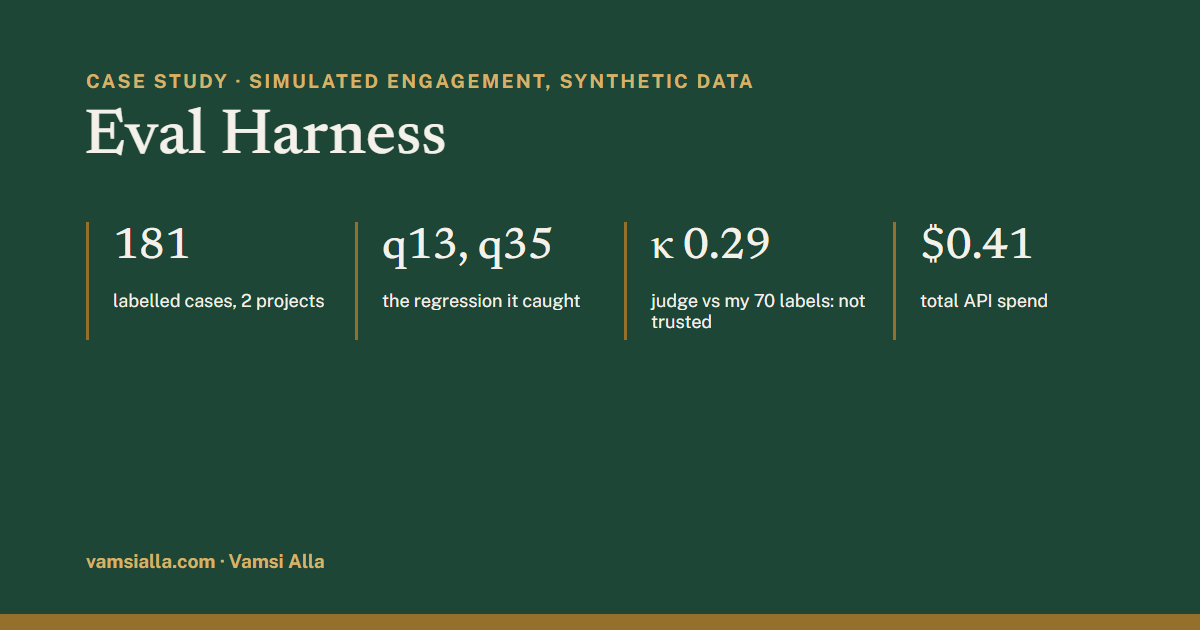
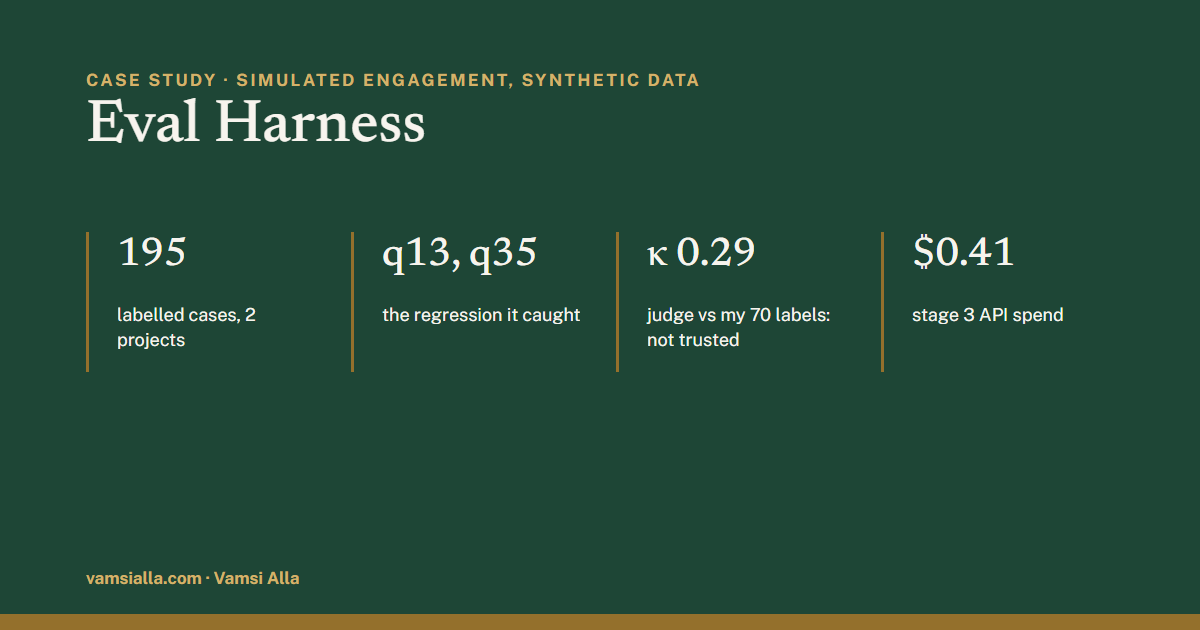
fix(seo): link previews match current numbers; Projects gets its own preview image
- Projects used stage 1's image and alt text (98%, 307 tests); it now has
  og-projects.png with numbers from its cards.
- Stage 1: 100% answer accuracy (162/162, v1.6.0), 431 tests (main CI).
- Stage 2: $1.24 per 1,000 emails (v1.1.0 release run; was $1.30, v1.0).
- Stage 3: 195 labelled cases.
Images rendered in the site fonts by video-kit/og_render.py.

diff --git a/projects/eval-harness.html b/projects/eval-harness.html
@@ -6,22 +6,22 @@
 <meta http-equiv="Content-Security-Policy" content="default-src 'self'; script-src 'self' 'sha256-o79U98mSonxUvDkqUhfri07kWq61HcDtV8t3ftYFIlY=' 'sha256-JLpx5CfaK6waZ0Y2x5NuG7yR1PnJjlfaRCBxq4ZAVqU=' gc.zgo.at; style-src 'self'; font-src 'self'; img-src 'self' data: https://vamsialla.goatcounter.com; connect-src 'self' https://vamsialla.goatcounter.com; media-src 'self'; object-src 'none'; base-uri 'self'; form-action 'none'">
 <meta name="referrer" content="strict-origin-when-cross-origin">
 <title>Eval Harness | Case study | Vamsi Alla</title>
-<meta name="description" content="Independent, simulated engagement with synthetic data: one evaluation harness for two AI assistants, with 181 labelled cases, regression gates in CI and an LLM judge checked against hand labels. It caught a realistic retrieval regression.">
+<meta name="description" content="Independent, simulated engagement with synthetic data: one evaluation harness for two AI assistants, with 195 labelled cases, regression gates in CI and an LLM judge checked against hand labels. It caught a realistic retrieval regression.">
 <link rel="canonical" href="https://vamsialla.com/projects/eval-harness.html">
 <meta property="og:title" content="Eval Harness | Case study | Vamsi Alla">
-<meta property="og:description" content="Independent, simulated engagement with synthetic data: one evaluation harness for two AI assistants, with 181 labelled cases, regression gates in CI and an LLM judge checked against hand labels. It caught a realistic retrieval regression.">
+<meta property="og:description" content="Independent, simulated engagement with synthetic data: one evaluation harness for two AI assistants, with 195 labelled cases, regression gates in CI and an LLM judge checked against hand labels. It caught a realistic retrieval regression.">
 <meta property="og:type" content="article">
 <meta property="og:url" content="https://vamsialla.com/projects/eval-harness.html">
 <meta property="og:site_name" content="Vamsi Alla">
 <meta property="og:image" content="https://vamsialla.com/assets/og-eval-harness.png">
 <meta property="og:image:width" content="1200">
 <meta property="og:image:height" content="630">
-<meta property="og:image:alt" content="Eval Harness case study: 181 labelled cases, the regression it caught (q13, q35), judge kappa 0.29 against 70 hand labels (not trusted), $0.41 total API spend">
+<meta property="og:image:alt" content="Eval Harness case study: 195 labelled cases, the regression it caught (q13, q35), judge kappa 0.29 against 70 hand labels (not trusted), $0.41 stage 3 API spend">
 <meta name="twitter:card" content="summary_large_image">
 <meta name="twitter:title" content="Eval Harness | Case study | Vamsi Alla">
-<meta name="twitter:description" content="Independent, simulated engagement with synthetic data: one evaluation harness for two AI assistants, with 181 labelled cases, regression gates in CI and an LLM judge checked against hand labels. It caught a realistic retrieval regression.">
+<meta name="twitter:description" content="Independent, simulated engagement with synthetic data: one evaluation harness for two AI assistants, with 195 labelled cases, regression gates in CI and an LLM judge checked against hand labels. It caught a realistic retrieval regression.">
 <meta name="twitter:image" content="https://vamsialla.com/assets/og-eval-harness.png">
-<meta name="twitter:image:alt" content="Eval Harness case study: 181 labelled cases, the regression it caught (q13, q35), judge kappa 0.29 against 70 hand labels (not trusted), $0.41 total API spend">
+<meta name="twitter:image:alt" content="Eval Harness case study: 195 labelled cases, the regression it caught (q13, q35), judge kappa 0.29 against 70 hand labels (not trusted), $0.41 stage 3 API spend">
 <meta name="theme-color" content="#F7F4EE" media="(prefers-color-scheme: light)">
 <meta name="theme-color" content="#111613" media="(prefers-color-scheme: dark)">
 <link rel="icon" href="../favicon.ico" sizes="32x32">

diff --git a/projects/hotel-ops-assistant.html b/projects/hotel-ops-assistant.html
@@ -6,22 +6,22 @@
 <meta http-equiv="Content-Security-Policy" content="default-src 'self'; script-src 'self' 'sha256-o79U98mSonxUvDkqUhfri07kWq61HcDtV8t3ftYFIlY=' 'sha256-JLpx5CfaK6waZ0Y2x5NuG7yR1PnJjlfaRCBxq4ZAVqU=' gc.zgo.at; style-src 'self'; font-src 'self'; img-src 'self' data: https://vamsialla.goatcounter.com; connect-src 'self' https://vamsialla.goatcounter.com; media-src 'self'; object-src 'none'; base-uri 'self'; form-action 'none'">
 <meta name="referrer" content="strict-origin-when-cross-origin">
 <title>Hotel Operations Knowledge Assistant | Case study | Vamsi Alla</title>
-<meta name="description" content="Independent, simulated engagement with synthetic data: a RAG assistant that gives hotel front-desk staff cited, property-specific policy answers. 98% answer accuracy on the live app; first-question success 43% to 100%.">
+<meta name="description" content="Independent, simulated engagement with synthetic data: a RAG assistant that gives hotel front-desk staff cited, property-specific policy answers. 100% answer accuracy on the live app (162/162, v1.6.0); first-question success 43% to 100%.">
 <link rel="canonical" href="https://vamsialla.com/projects/hotel-ops-assistant.html">
 <meta property="og:title" content="Hotel Operations Knowledge Assistant | Case study | Vamsi Alla">
-<meta property="og:description" content="Independent, simulated engagement with synthetic data: a RAG assistant that gives hotel front-desk staff cited, property-specific policy answers. 98% answer accuracy on the live app; first-question success 43% to 100%.">
+<meta property="og:description" content="Independent, simulated engagement with synthetic data: a RAG assistant that gives hotel front-desk staff cited, property-specific policy answers. 100% answer accuracy on the live app (162/162, v1.6.0); first-question success 43% to 100%.">
 <meta property="og:type" content="article">
 <meta property="og:url" content="https://vamsialla.com/projects/hotel-ops-assistant.html">
 <meta property="og:site_name" content="Vamsi Alla">
 <meta property="og:image" content="https://vamsialla.com/assets/og-hotel-ops.png">
 <meta property="og:image:width" content="1200">
 <meta property="og:image:height" content="630">
-<meta property="og:image:alt" content="Hotel Operations Knowledge Assistant case study: 98% answer accuracy on the live app, first-question success 43% to 100%, 307 tests">
+<meta property="og:image:alt" content="Hotel Operations Knowledge Assistant case study: 100% answer accuracy on the live app (v1.6.0), first-question success 43% to 100%, 431 tests">
 <meta name="twitter:card" content="summary_large_image">
 <meta name="twitter:title" content="Hotel Operations Knowledge Assistant | Case study | Vamsi Alla">
-<meta name="twitter:description" content="Independent, simulated engagement with synthetic data: a RAG assistant that gives hotel front-desk staff cited, property-specific policy answers. 98% answer accuracy on the live app; first-question success 43% to 100%.">
+<meta name="twitter:description" content="Independent, simulated engagement with synthetic data: a RAG assistant that gives hotel front-desk staff cited, property-specific policy answers. 100% answer accuracy on the live app (162/162, v1.6.0); first-question success 43% to 100%.">
 <meta name="twitter:image" content="https://vamsialla.com/assets/og-hotel-ops.png">
-<meta name="twitter:image:alt" content="Hotel Operations Knowledge Assistant case study: 98% answer accuracy on the live app, first-question success 43% to 100%, 307 tests">
+<meta name="twitter:image:alt" content="Hotel Operations Knowledge Assistant case study: 100% answer accuracy on the live app (v1.6.0), first-question success 43% to 100%, 431 tests">
 <meta name="theme-color" content="#F7F4EE" media="(prefers-color-scheme: light)">
 <meta name="theme-color" content="#111613" media="(prefers-color-scheme: dark)">
 <link rel="icon" href="../favicon.ico" sizes="32x32">

diff --git a/projects/guest-request-agent.html b/projects/guest-request-agent.html
@@ -16,12 +16,12 @@
 <meta property="og:image" content="https://vamsialla.com/assets/og-guest-agent.png">
 <meta property="og:image:width" content="1200">
 <meta property="og:image:height" content="630">
-<meta property="og:image:alt" content="Guest Request Agent case study: 100% escalations caught over 3 runs, 100% injection resistance, 0 forbidden promises, $1.30 per 1,000 emails">
+<meta property="og:image:alt" content="Guest Request Agent case study: 100% escalations caught over 3 runs, 100% injection resistance, 0 forbidden promises, $1.24 per 1,000 emails (v1.1.0)">
 <meta name="twitter:card" content="summary_large_image">
 <meta name="twitter:title" content="Guest Request Agent | Case study | Vamsi Alla">
 <meta name="twitter:description" content="Independent, simulated engagement with synthetic data: an AI agent that reads hotel guest emails, checks bookings, availability and policy, and drafts cited replies for staff approval. 100% escalation recall and injection resistance over 3 runs.">
 <meta name="twitter:image" content="https://vamsialla.com/assets/og-guest-agent.png">
-<meta name="twitter:image:alt" content="Guest Request Agent case study: 100% escalations caught over 3 runs, 100% injection resistance, 0 forbidden promises, $1.30 per 1,000 emails">
+<meta name="twitter:image:alt" content="Guest Request Agent case study: 100% escalations caught over 3 runs, 100% injection resistance, 0 forbidden promises, $1.24 per 1,000 emails (v1.1.0)">
 <meta name="theme-color" content="#F7F4EE" media="(prefers-color-scheme: light)">
 <meta name="theme-color" content="#111613" media="(prefers-color-scheme: dark)">
 <link rel="icon" href="../favicon.ico" sizes="32x32">
